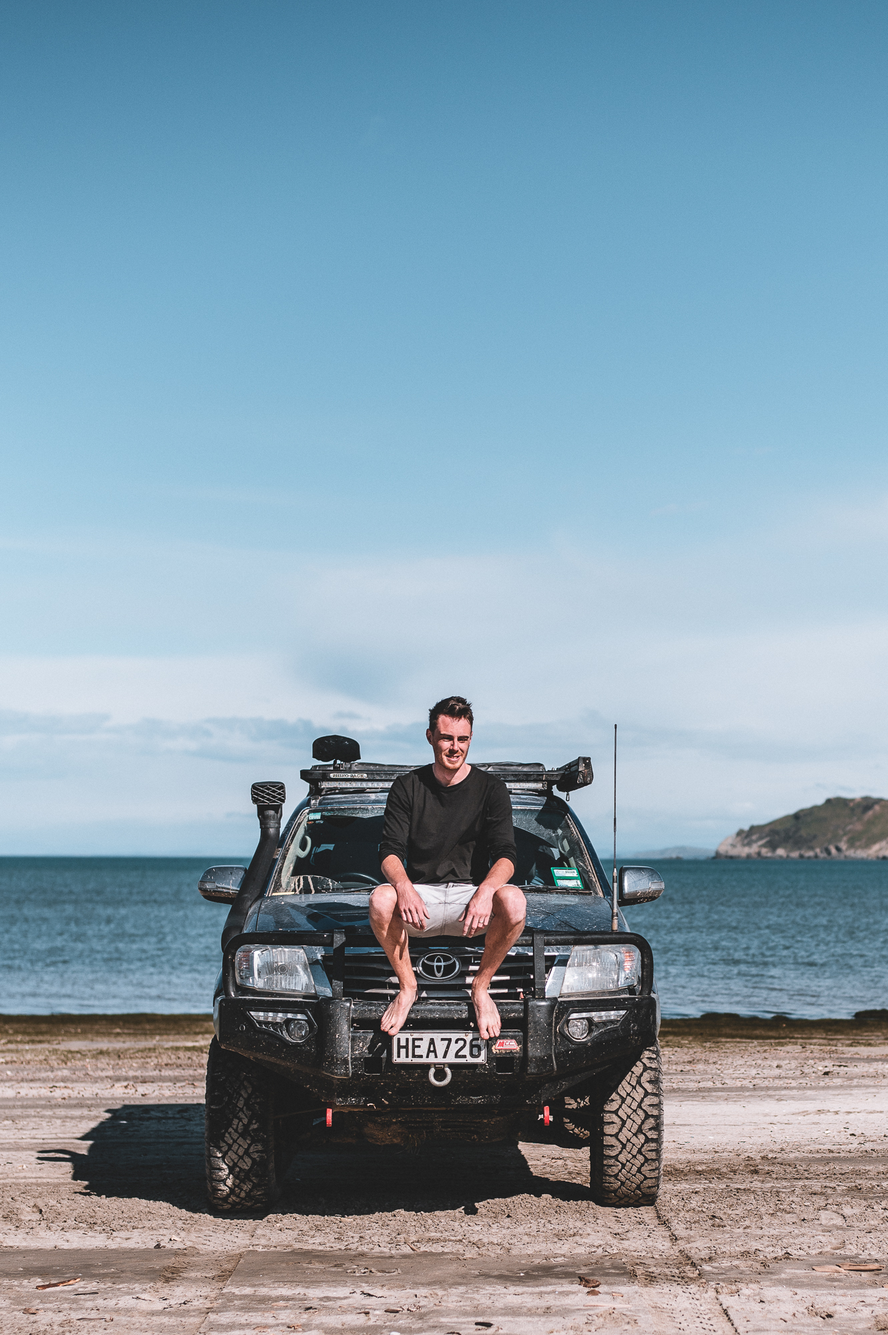
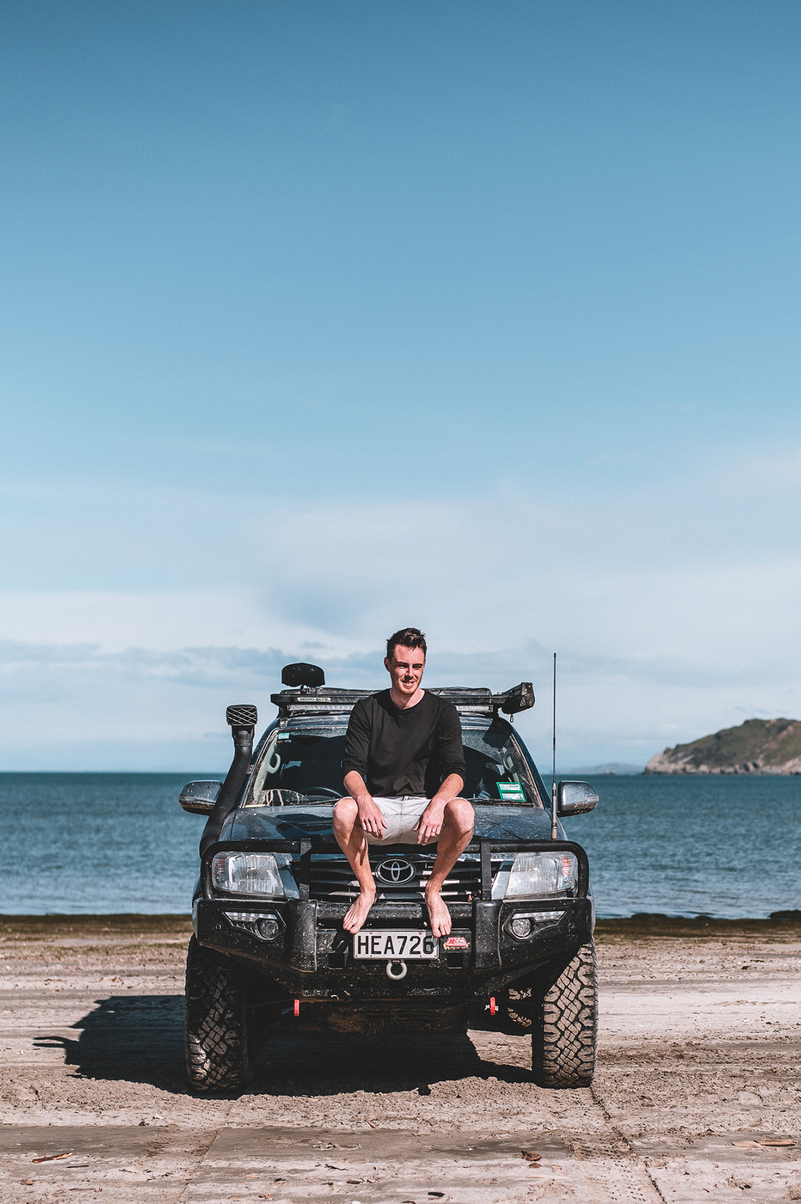
Fix things

diff --git a/build/stylesheets/site.css b/build/stylesheets/site.css
@@ -138,7 +138,7 @@ a {
         transform: translateY(-50%);
         width: 100%; } }
   .panel.panel--photo {
-    background: black url(/img/hero2.jpg) no-repeat center;
+    background: black url(/img/hero3.jpg) no-repeat center;
     background-size: cover;
     position: fixed;
     width: 100%;
